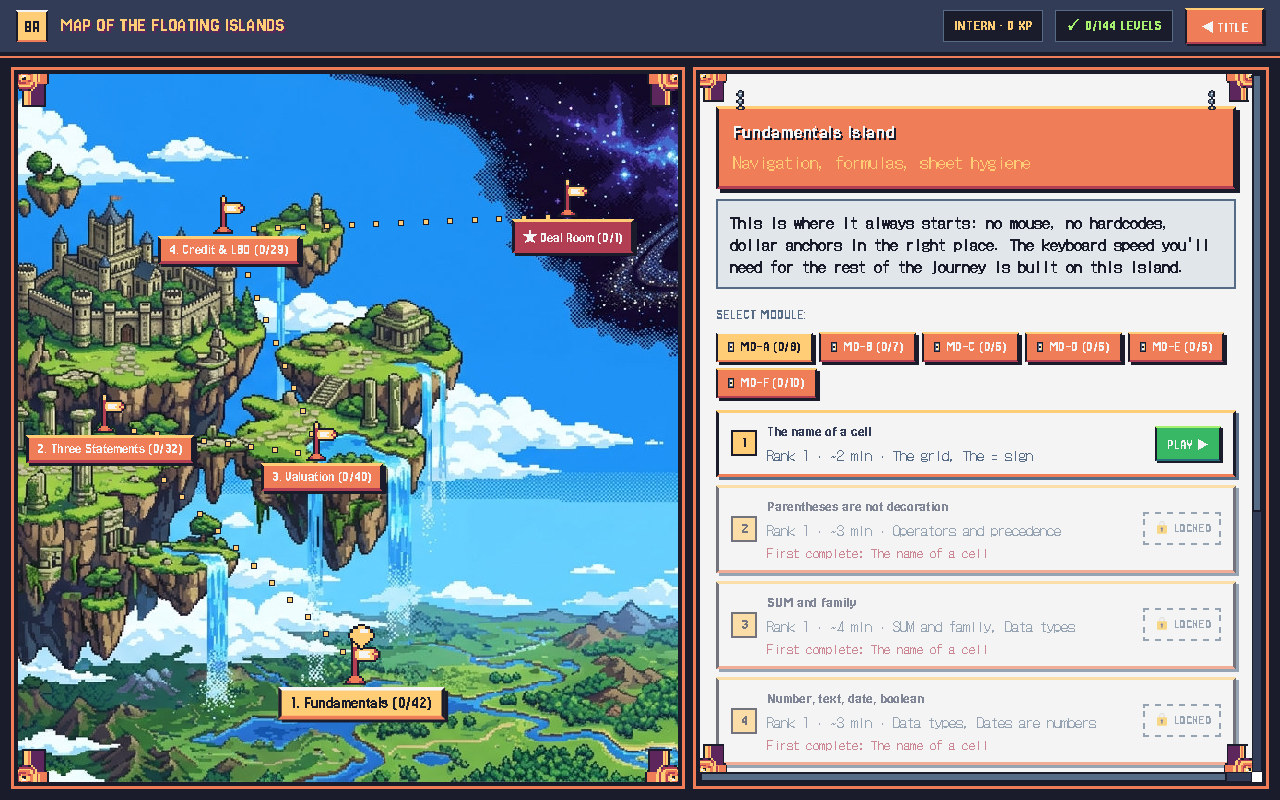
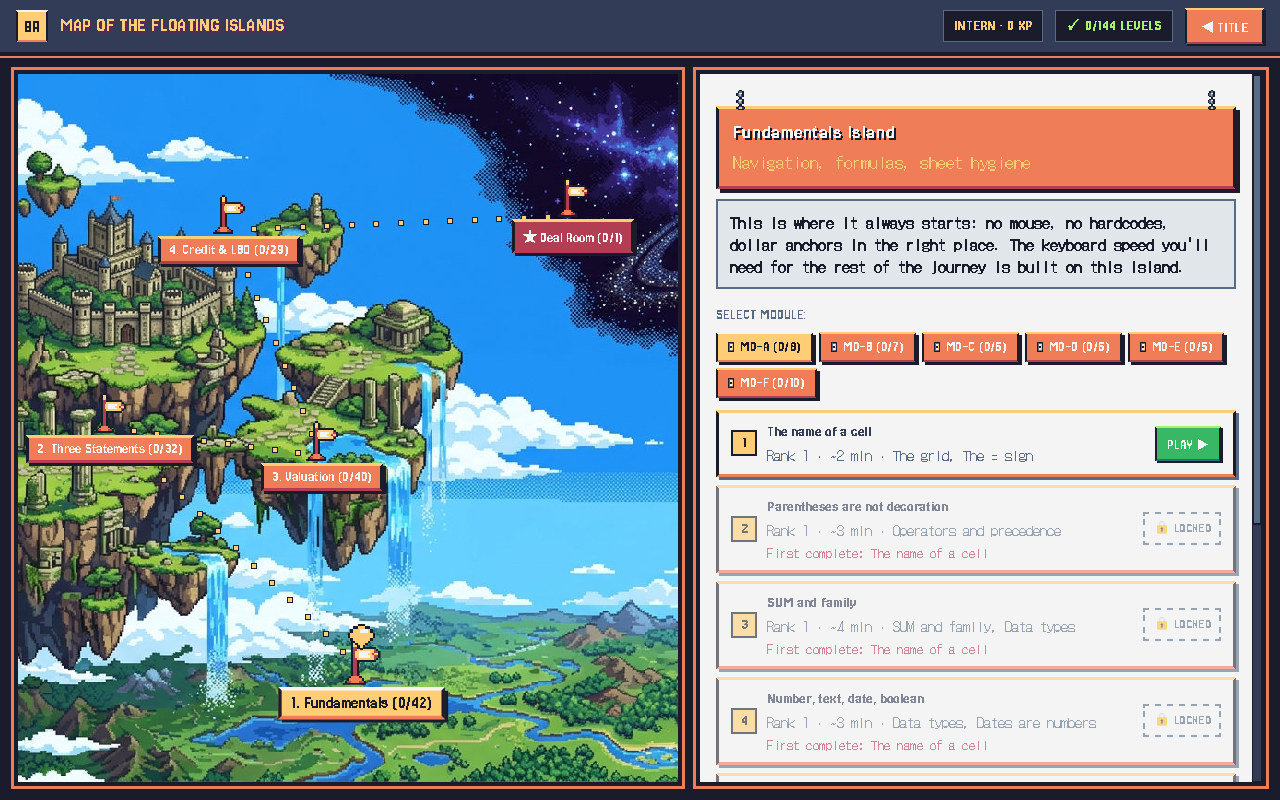
Map without the floating corner columns; privacy owner set in every build
- The carved wood corners on the map and level panels did not line up with
  the frames and looked detached: removed.
- Privacy controller and contact move from .env.production to .env, so the
  notice is complete in development too instead of showing placeholders.

diff --git a/src/ui/WorldMap.tsx b/src/ui/WorldMap.tsx
@@ -13,10 +13,6 @@ import { rankForXp } from '../persistence/progression';
 import { PALETTE } from '../styles/palette';
 import { PixelSprite } from './sprites/PixelCanvas';
 import {
-  WOOD_LOG_CORNER_TL,
-  WOOD_LOG_CORNER_TR,
-  WOOD_LOG_CORNER_BL,
-  WOOD_LOG_CORNER_BR,
   MAP_PIN_BANNER,
   WOOD_CHAIN_HANGER,
   WOOD_IRON_CLAMP,
@@ -166,19 +162,6 @@ export function WorldMap({ onSelectLevel, onBackToTitle }: WorldMapProps) {
             }}
           />
 
-          {/* Angolari decorativi 16-bit a tronco di legno intagliato */}
-          <div style={{ position: 'absolute', top: -10, left: -10, zIndex: 30, pointerEvents: 'none' }}>
-            <PixelSprite frame={WOOD_LOG_CORNER_TL} scale={1.8} />
-          </div>
-          <div style={{ position: 'absolute', top: -10, right: -10, zIndex: 30, pointerEvents: 'none' }}>
-            <PixelSprite frame={WOOD_LOG_CORNER_TR} scale={1.8} />
-          </div>
-          <div style={{ position: 'absolute', bottom: -10, left: -10, zIndex: 30, pointerEvents: 'none' }}>
-            <PixelSprite frame={WOOD_LOG_CORNER_BL} scale={1.8} />
-          </div>
-          <div style={{ position: 'absolute', bottom: -10, right: -10, zIndex: 30, pointerEvents: 'none' }}>
-            <PixelSprite frame={WOOD_LOG_CORNER_BR} scale={1.8} />
-          </div>
 
           {/* Linee di rotta / sentieri pixel a quadratini dorati */}
           {pathDots(ISLANDS).map((p, i) => (
@@ -259,19 +242,6 @@ export function WorldMap({ onSelectLevel, onBackToTitle }: WorldMapProps) {
 
         {/* Pannello Dettaglio Isola e Livelli — Stile Cartelli in Legno Appesi */}
         <div style={panelOuterStyle}>
-          {/* Angolari decorativi 16-bit a tronco per il pannello */}
-          <div style={{ position: 'absolute', top: -10, left: -10, zIndex: 30, pointerEvents: 'none' }}>
-            <PixelSprite frame={WOOD_LOG_CORNER_TL} scale={1.6} />
-          </div>
-          <div style={{ position: 'absolute', top: -10, right: -10, zIndex: 30, pointerEvents: 'none' }}>
-            <PixelSprite frame={WOOD_LOG_CORNER_TR} scale={1.6} />
-          </div>
-          <div style={{ position: 'absolute', bottom: -10, left: -10, zIndex: 30, pointerEvents: 'none' }}>
-            <PixelSprite frame={WOOD_LOG_CORNER_BL} scale={1.6} />
-          </div>
-          <div style={{ position: 'absolute', bottom: -10, right: -10, zIndex: 30, pointerEvents: 'none' }}>
-            <PixelSprite frame={WOOD_LOG_CORNER_BR} scale={1.6} />
-          </div>
 
           {/* Intestazione cartello appeso con catene */}
           <div style={hangingSignHeaderStyle}>

diff --git a/src/ui/PrivacyModal.tsx b/src/ui/PrivacyModal.tsx
@@ -2,7 +2,7 @@
  * Informativa privacy (art. 13 GDPR), in italiano e in inglese.
  *
  * Titolare e contatto vengono dalla configurazione della build
- * (VITE_PRIVACY_OWNER, VITE_PRIVACY_CONTACT in .env.production): una sola
+ * (VITE_PRIVACY_OWNER, VITE_PRIVACY_CONTACT in .env): una sola
  * persona li compila, il testo resta nei file di lingua.
  */
 

diff --git a/docs/DEPLOY.md b/docs/DEPLOY.md
@@ -27,14 +27,15 @@ chiede permessi molto più ampi.
 
 ## Configurazione della build
 
+`.env` contiene i valori comuni a sviluppo e build: `VITE_PRIVACY_OWNER` e
+`VITE_PRIVACY_CONTACT`, titolare e contatto dell'informativa privacy.
+
 `.env.production` contiene i valori pubblici della versione online:
 
 - `VITE_POSTHOG_KEY` — vuota = statistiche spente e nessun banner di consenso.
   Per attivarle vedi `docs/ANALYTICS.md`, poi ricostruisci e ripubblica.
 - `VITE_CF_BEACON_TOKEN` — token di Cloudflare Web Analytics (visite aggregate):
   lo script viene aggiunto solo nella build pubblicata. Vuoto = disattivato.
-- `VITE_PRIVACY_OWNER`, `VITE_PRIVACY_CONTACT` — titolare e contatto
-  dell'informativa privacy.
 
 ## Dominio personalizzato (facoltativo)
 

diff --git a/docs/ANALYTICS.md b/docs/ANALYTICS.md
@@ -117,7 +117,7 @@ controllare una volta a settimana.
   pagina del titolo, nelle Impostazioni e nella richiesta di consenso; si apre
   anche direttamente all'indirizzo `/?privacy`. Il testo è in
   `src/locales/*/ui.json` (chiave `Privacy.testo`); titolare e contatto si
-  impostano in `.env.production` (`VITE_PRIVACY_OWNER`, `VITE_PRIVACY_CONTACT`).
+  impostano in `.env` (`VITE_PRIVACY_OWNER`, `VITE_PRIVACY_CONTACT`), che vale sia in sviluppo sia nella build pubblicata.
 - Il consenso si chiede una volta (sul titolo o sulla mappa) e si cambia dalle
   Impostazioni; con "No" non parte nulla e l'identificativo viene cancellato.
 - Non si inviano: nome, email, IP (con l'opzione del punto 3), contenuto delle
